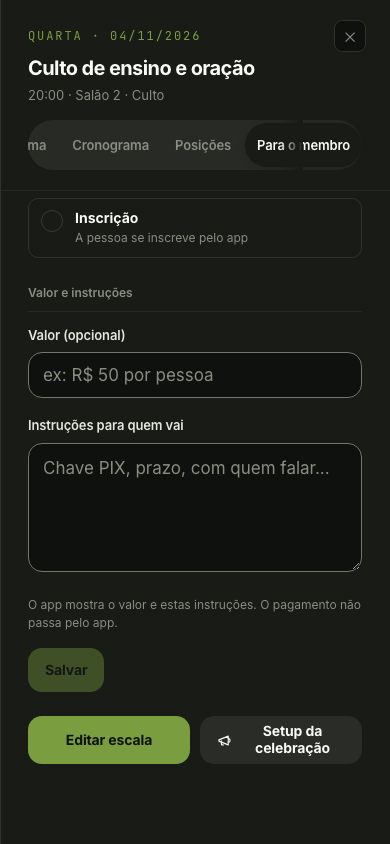
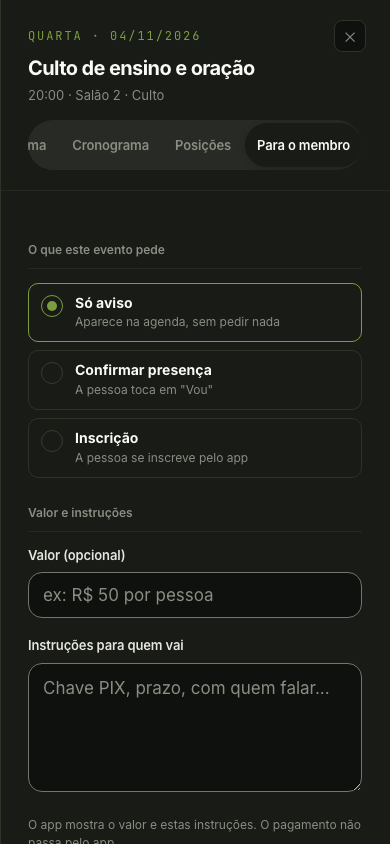
fix(E2): fecha a conferência do Panorama
- Roteiro sem nome mostra "Sem nome" em vez de travessão (lei 12, CI)
- Segmentado rolável: pílula com o cálculo original (já acompanha a rolagem)
  e esfumado controlado por estado, sem mutar valor do hook (lint)
- Toque num time do Panorama rola até ele na aba Posições, abaixo do
  cabeçalho fixo: DrawerSection ganha a prop id
- Evento sem setState dentro de efeito (lint); Panorama sem variáveis sem uso
- Foto nova de 390 em "Para o membro"

diff --git a/app/service/ui/Segmentado.tsx b/app/service/ui/Segmentado.tsx
@@ -6,43 +6,35 @@
    .seg que já existe. */
 
 import type { HTMLAttributes } from "react";
-import { useEffect } from "react";
+import { useEffect, useState } from "react";
 import { useIndicador } from "./indicador";
-
-const MARCADA = 'button.on, [aria-checked="true"], [aria-selected="true"]';
 
 export function Segmentado({ className, children, rolavel, esconderEsfumadoNoFim, ...rest }: HTMLAttributes<HTMLDivElement> & { rolavel?: boolean; esconderEsfumadoNoFim?: boolean }) {
   const { caixa, indicador } = useIndicador<HTMLDivElement, HTMLSpanElement>();
+  const [noFim, setNoFim] = useState(false);
+
+  /* rolavel: as opções rolam para o lado e a ponta direita ganha um esfumado.
+     A pílula fica dentro da área que rola, então acompanha a rolagem sozinha.
+     esconderEsfumadoNoFim: o esfumado some quando não há mais nada para rolar,
+     para não cobrir o texto da última opção. */
+  useEffect(() => {
+    const el = caixa.current;
+    if (!rolavel || !esconderEsfumadoNoFim || !el) return;
+    /* A folga interna da direita conta como fim: a última opção já está inteira. */
+    const medir = () => setNoFim(el.scrollLeft + el.clientWidth >= el.scrollWidth - parseFloat(getComputedStyle(el).paddingRight) - 1);
+    el.addEventListener("scroll", medir, { passive: true });
+    const ro = typeof ResizeObserver !== "undefined" ? new ResizeObserver(medir) : null;
+    ro?.observe(el);
+    return () => { el.removeEventListener("scroll", medir); ro?.disconnect(); };
+  }, [rolavel, esconderEsfumadoNoFim, caixa]);
+
   const cls = [
     "seg",
     "tem-pilula",
     rolavel ? "seg-rolavel" : "",
+    rolavel && esconderEsfumadoNoFim && noFim ? "seg-no-fade" : "",
     className ?? "",
   ].filter(Boolean).join(" ");
-
-  /* Em containers roláveis, offsetLeft não muda com o scroll, mas a posição
-     visual sim. Este listener ajusta a pílula durante a rolagem, sem alterar
-     o hook global que é usado por Abas e Segmentados não-roláveis.
-     Quando esconderEsfumadoNoFim está ligado, o fade da direita some ao chegar
-     no fim da rolagem, para não cobrir o texto da última aba. */
-  useEffect(() => {
-    if (!rolavel) return;
-    const el = caixa.current;
-    const p = indicador.current;
-    if (!el || !p) return;
-    const atualizar = () => {
-      const alvo = el.querySelector<HTMLElement>(MARCADA);
-      if (!alvo) return;
-      p.style.transform = `translateX(${alvo.offsetLeft - el.scrollLeft}px)`;
-      if (esconderEsfumadoNoFim) {
-        const noFim = el.scrollLeft + el.clientWidth >= el.scrollWidth - 1;
-        el.classList.toggle("seg-no-fade", noFim);
-      }
-    };
-    atualizar();
-    el.addEventListener("scroll", atualizar, { passive: true });
-    return () => el.removeEventListener("scroll", atualizar);
-  }, [rolavel, esconderEsfumadoNoFim, caixa, indicador]);
 
   return (
     <div {...rest} ref={caixa} className={cls}>

diff --git a/app/service/painel/telas/Evento.tsx b/app/service/painel/telas/Evento.tsx
@@ -2,7 +2,7 @@
 
 import { avisar } from "../../lib/avisar";
 import { useRouter } from "next/navigation";
-import { useEffect, useState } from "react";
+import { useEffect, useRef, useState } from "react";
 import { createServiceBrowserClient } from "../../lib/supabase-browser";
 import { Icon } from "../../lib/icons";
 import { formatDateBR, joinDot } from "../../lib/date";
@@ -51,24 +51,28 @@ export function EventDrawer({
   const { comTermos: ct } = useTermos();
   const router = useRouter();
   const [tab, setTab] = useState<"panorama" | "crono" | "posicoes" | "membro">(initialTab ?? "panorama");
-  const [scrollToTimeId, setScrollToTimeId] = useState<string | null>(null);
+  const rolarParaTime = useRef<string | null>(null);
   const eventRoster = roster.filter((assignment) => assignment.event_id === event.id);
   const eventMinistries = event.ministries.length ? ministries.filter((ministry) => event.ministries.includes(ministry.id)) : ministries;
 
   /* Scroll-to-focus reage à montagem do painel Posições, sem setTimeout arbitrário. */
   useEffect(() => {
-    if (tab !== "posicoes" || !scrollToTimeId) return;
-    const el = document.getElementById(`esc-col-${scrollToTimeId}`);
+    const timeId = rolarParaTime.current;
+    if (tab !== "posicoes" || !timeId) return;
+    rolarParaTime.current = null;
+    const el = document.getElementById(`evento-time-${timeId}`);
     if (el) {
+      /* O cabeçalho do drawer é fixo: a seção para logo abaixo dele, sem ficar escondida. */
+      const cabecalho = el.closest(".drawer")?.querySelector<HTMLElement>(".drawer-head");
+      el.style.scrollMarginTop = `${(cabecalho?.offsetHeight ?? 0) + 8}px`;
       el.scrollIntoView({ behavior: "smooth", block: "start" });
       el.focus({ preventScroll: true });
     }
-    setScrollToTimeId(null);
-  }, [tab, scrollToTimeId]);
+  }, [tab]);
 
   /* Toque num time incompleto no Panorama abre a aba Posições rolada até ele. */
   const abrirTimeNoPanorama = (timeId: string) => {
-    setScrollToTimeId(timeId);
+    rolarParaTime.current = timeId;
     setTab("posicoes");
   };
 
@@ -109,7 +113,7 @@ export function EventDrawer({
         ) : (
           <>
             {eventMinistries.map((ministry) => (
-              <DrawerSection title={ministry.name} key={ministry.id}>
+              <DrawerSection title={ministry.name} key={ministry.id} id={`evento-time-${ministry.id}`}>
                 {(ministry.positions.length ? ministry.positions : [{ id: `${ministry.id}-geral`, ministry_id: ministry.id, name: "Equipe", need_count: 1, sort_order: 0 }]).map((position) => {
                   const assignments = eventRoster.filter((assignment) => assignment.position_id === position.id);
                   const valid = assignments.filter((assignment) => assignment.status !== "no").length;

diff --git a/app/service/painel/telas/Panorama.tsx b/app/service/painel/telas/Panorama.tsx
@@ -14,11 +14,8 @@ import { Linha } from "../../ui/Linha";
 import { Selo } from "../../ui/Selo";
 import { DrawerSection } from "../campos";
 import { useTermos } from "../../lib/vocabulario-context";
-import { joinDot } from "../../lib/date";
 
 export function Panorama({
-  event,
-  ministries,
   cobertura,
   schedule,
   onAbrirTime,
@@ -32,8 +29,6 @@ export function Panorama({
   const { comTermos: ct } = useTermos();
   const incompletos = cobertura.filter((t) => t.preenchidas < t.total);
   const completosCount = cobertura.length - incompletos.length;
-  const ministryName = (id: string | null) =>
-    id ? ministries.find((m) => m.id === id)?.name ?? null : null;
 
   return (
     <>
@@ -79,7 +74,7 @@ export function Panorama({
                 <Linha>
                   <span className="panorama-crono-hora">{step.time ?? "--:--"}</span>
                   <div className="mini-main">
-                    <div className="panorama-crono-item">{step.item || "—"}</div>
+                    <div className="panorama-crono-item">{step.item || "Sem nome"}</div>
                   </div>
                 </Linha>
               </li>

diff --git a/app/service/painel/campos.tsx b/app/service/painel/campos.tsx
@@ -10,9 +10,10 @@ export function DrawerShell({ children, onClose, wide }: { children: React.React
   return <Gaveta aoFechar={onClose} larga={wide}>{children}</Gaveta>;
 }
 
-export function DrawerSection({ title, children }: { title: string; children: React.ReactNode }) {
+/* id: opcional, para outra tela rolar até esta seção e pôr o foco nela. */
+export function DrawerSection({ title, id, children }: { title: string; id?: string; children: React.ReactNode }) {
   return (
-    <div className="dsec">
+    <div className="dsec" id={id} tabIndex={id ? -1 : undefined}>
       <div className="dsec-title">{title}</div>
       {children}
     </div>

diff --git a/docs/service-v7/historias/E2-panorama-do-culto.md b/docs/service-v7/historias/E2-panorama-do-culto.md
@@ -22,6 +22,7 @@ Fonte: LEVEZA B2; MANIFESTO 2b.2, 4.16.
 - `evolucoes/service_app/service-app.css`
 - `app/service/modules/escalas/CoberturaResumo.tsx`
 - `app/service/painel/telas/Panorama.tsx` / `panorama.css`
+- `app/service/painel/telas/Evento.tsx`, `app/service/painel/campos.tsx` (prop `id` no DrawerSection), `app/service/ui/Segmentado.tsx`, `app/service/modules/define.ts`, `app/service/modules/cultos/manifest.ts`
 
 ## Pronto quando
 - Cronograma em ordem (event_schedule_items), uma linha por time (events.ministries), problemas primeiro.
@@ -32,3 +33,4 @@ Fonte: LEVEZA B2; MANIFESTO 2b.2, 4.16.
 
 ## Notas
 Feita em 2026-11-04. Panorama read-only com cobertura resumida e cronograma; CoberturaResumo extraído como componente compartilhado.
+Conferência de 04/11 (claude): travessão do roteiro trocado por "Sem nome" (lei 12); pílula e esfumado do Segmentado rolável sem mutar valor do hook; toque num time do Panorama agora rola até ele em Posições (o id procurado só existia na tela de Escalas).
